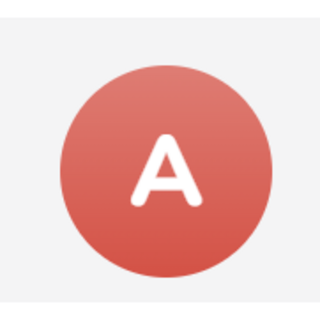
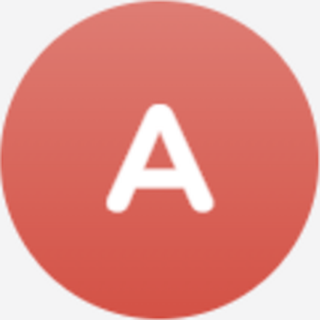
The 500 anybody could type, and two things that looked unfinished
/api/share?period=toString returned 500 on the live site. A plain object literal inherits from Object.prototype, so PERIODS.toString is a FUNCTION rather than undefined; PERIODS[key] ?? 'This month' never fired for it, and the code below called .toUpperCase() on a function. Same for constructor, valueOf, hasOwnProperty and __proto__. Nothing was exposed and nothing was written, but a public endpoint that crashes on a URL anybody can type is a defect whether or not anybody has typed it.

Both maps in that route are now built with a null prototype and read through own(), which returns the fallback for anything that is not an own string property.

The guard is in tools/check.mjs rather than a unit test, because the route is an edge ImageResponse and what needs proving is the HTTP behaviour. It probes six prototype keys across /api/share, /og, /app/ledger and /demo, plus junk in every numeric field, a script tag in the handle, a 600 character title and a call with no parameters at all: 34 URLs, none of which may 5xx. It runs against the live origin too, so this is checkable after a deploy rather than only before one.
[…]

diff --git a/components/marketing/Makers.tsx b/components/marketing/Makers.tsx
@@ -10,26 +10,20 @@ import { Icon } from '@/components/Icon';
  *  bets, holds money or pays winnings, and a tip that looked like it lived
  *  inside the product would blur the one line the product cannot blur.
  *
- *  With no URL set it says so rather than rendering a dead button. A control
- *  that goes nowhere is worse than an absent one. */
+ *  With no URL set there is no card at all. */
 
+/*  No role under each name. They did the same thing, so the same line twice
+ *  is a caption that says nothing and looks like a template. The heading
+ *  already says what they did. */
 const MAKERS = [
-  {
-    name: 'Zhang',
-    src: '/team/zhang.png',
-    did: 'Design and the interface',
-  },
-  {
-    name: 'Aniket',
-    src: '/team/aniket.png',
-    did: 'Design and the interface',
-  },
+  { name: 'Zhang', src: '/team/zhang.png' },
+  { name: 'Aniket', src: '/team/aniket.png' },
 ];
 
 export function Makers({ tipUrl }: { tipUrl?: string }) {
   return (
     <section className="sect" id="makers">
-      <div className="wrap makers">
+      <div className={`wrap makers${tipUrl ? '' : ' makers--solo'}`}>
         <div className="makers__who">
           <h2 className="sect__h">
             <span className="setup">Two people made this.</span>
@@ -44,21 +38,21 @@ export function Makers({ tipUrl }: { tipUrl?: string }) {
               <li key={m.name}>
                 {/* eslint-disable-next-line @next/next/no-img-element */}
                 <img src={m.src} alt="" className="makers__face" width={64} height={64} />
-                <span>
-                  <span className="makers__name">{m.name}</span>
-                  <span className="makers__did">{m.did}</span>
-                </span>
+                <span className="makers__name">{m.name}</span>
               </li>
             ))}
           </ul>
         </div>
 
-        <div className="card makers__tip">
-          <p className="card__title">Buy them a coffee</p>
-          <p className="small muted" style={{ marginTop: 'var(--s2)' }}>
-            Nothing here is behind a tip.
-          </p>
-          {tipUrl ? (
+        {/*  With no URL there is no card. A tip jar that says "not set up yet"
+             is a control announcing its own absence, which is worse on a live
+             site than the section simply not having one. */}
+        {tipUrl ? (
+          <div className="card makers__tip">
+            <p className="card__title">Buy them a coffee</p>
+            <p className="small muted" style={{ marginTop: 'var(--s2)' }}>
+              Nothing here is behind a tip.
+            </p>
             <Link
               href={tipUrl}
               className="btn btn--ghost"
@@ -68,12 +62,8 @@ export function Makers({ tipUrl }: { tipUrl?: string }) {
             >
               <Icon name="heart" size={16} /> Send one
             </Link>
-          ) : (
-            <p className="small dim" style={{ marginTop: 'var(--s5)' }}>
-              Not set up yet.
-            </p>
-          )}
-        </div>
+          </div>
+        ) : null}
       </div>
     </section>
   );

diff --git a/app/api/share/route.tsx b/app/api/share/route.tsx
@@ -25,20 +25,37 @@ const INK2 = '#A9A8A3';
 const POS = '#86EFAC';
 const NEG = '#FCA5A5';
 
-const PERIODS: Record<string, string> = {
+/*  A plain object literal inherits from Object.prototype, so PERIODS.toString
+ *  is a FUNCTION, not undefined, and `?? 'This month'` never fires for it.
+ *  /api/share?period=toString reached period.toUpperCase() on a function and
+ *  returned 500 on the live site. Every one of these maps is indexed by a
+ *  query string, so all of them are built without a prototype and every read
+ *  goes through own(). */
+function table(entries: Record<string, string>): Record<string, string> {
+  return Object.assign(Object.create(null) as Record<string, string>, entries);
+}
+
+/** Own properties only, and always a string. */
+function own(map: Record<string, string>, key: string | null, fallback: string): string {
+  if (key === null) return fallback;
+  const v = Object.prototype.hasOwnProperty.call(map, key) ? map[key] : undefined;
+  return typeof v === 'string' ? v : fallback;
+}
+
+const PERIODS = table({
   day: 'Today',
   week: 'This week',
   month: 'This month',
   year: 'This year',
   all: 'All time',
-};
+});
 
-const SYMBOL: Record<string, string> = { GBP: '£', EUR: '€' };
+const SYMBOL = table({ GBP: '£', EUR: '€' });
 
 /** Pence to a display string. The card never receives a formatted string,
  *  only an integer, so there is nothing to inject. */
 function money(minor: number, cur: string, sign = false): string {
-  const s = SYMBOL[cur] ?? '£';
+  const s = own(SYMBOL, cur, '£');
   const neg = minor < 0;
   const abs = Math.abs(minor);
   const body = `${s}${(abs / 100).toLocaleString('en-GB', { minimumFractionDigits: 2, maximumFractionDigits: 2 })}`;
@@ -55,7 +72,7 @@ export async function GET(req: Request) {
   const q = new URL(req.url).searchParams;
 
   const cur = q.get('cur') === 'EUR' ? 'EUR' : 'GBP';
-  const period = PERIODS[q.get('period') ?? 'month'] ?? 'This month';
+  const period = own(PERIODS, q.get('period') ?? 'month', 'This month');
   const net = int(q.get('net'));
   const bets = Math.max(0, int(q.get('bets')));
   const units = int(q.get('units')) / 100;      // sent as hundredths

diff --git a/app/styles/marketing.css b/app/styles/marketing.css
@@ -355,8 +355,10 @@
   flex: none;
 }
 .makers__name { display: block; font-weight: var(--w-label); font-size: var(--t-small); }
-.makers__did { display: block; font-size: var(--t-micro); color: var(--ink-2); margin-top: 2px; }
 .makers__tip { align-self: start; }
+/*  No tip jar means no second column, and the block reads as one thought
+    rather than a wide left half beside a gap. */
+@media (min-width: 900px) { .makers--solo { grid-template-columns: minmax(0, 1fr); } }
 .madeby { margin-top: var(--s4); }
 .madeby a { color: var(--ink-2); }
 .madeby a:hover { color: var(--ink); }
